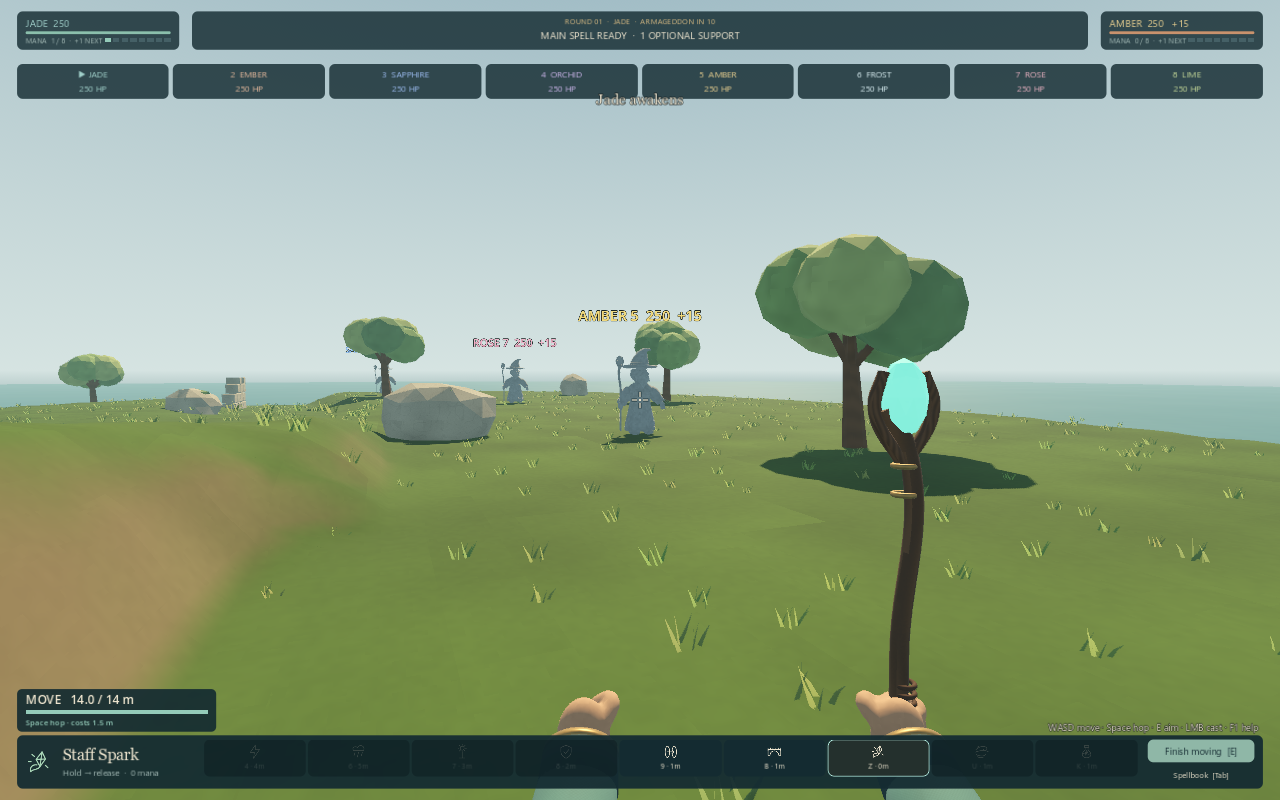
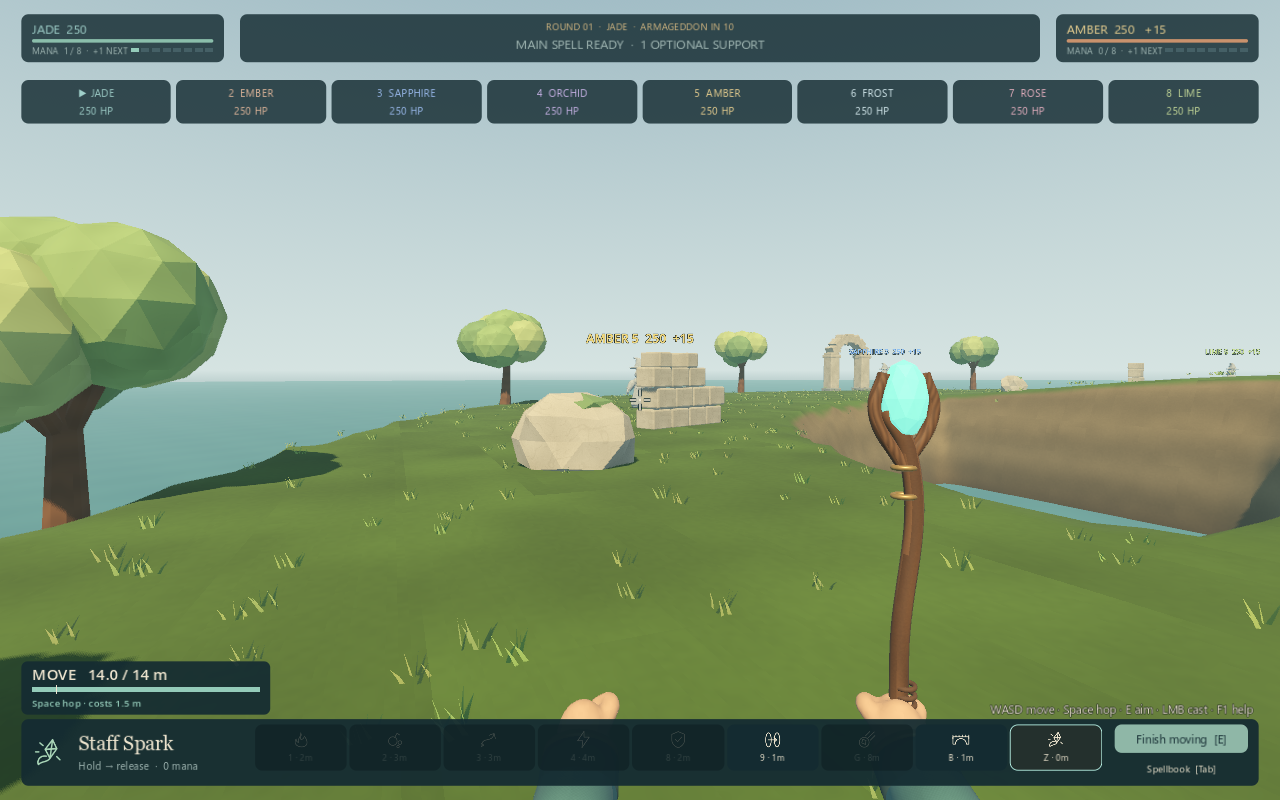
Publish ARCFALL 1.10.0 new spells, arenas and custom battles

diff --git a/README.md b/README.md
@@ -6,7 +6,7 @@ A first-person, turn-based wizard artillery game. Prepare up to eight spells und
 20-point budget, bank mana for a devastating ritual, and turn your opponent's
 cover into a crater. Water is deadly. Position matters as much as damage.
 
-![Stormcaller opens an eight-player battle on Grand Reach](images/battle.png)
+![A first-person opening on Moonwell Atoll in eight-player FFA](images/battle.png)
 
 ## Download and play
 
@@ -27,13 +27,21 @@ hardware specification.
 - AI duels and four/eight-player free-for-all against AI.
 - Six solo Trials with fixed rivals and optional mastery goals.
 - Apprentice, Adept and Archmage skirmish opponents, with equal resources.
-- Six named personal spellbooks and a combat history explaining each loss.
-- Two-player hotseat on one computer.
-- Guided practice and a sandbox with all twenty-one spells.
-- Three destructible arenas, original 3D artwork, towers, imps and a storm-sea
+- Six named personal spellbooks, shareable book codes and combat history.
+- Two/four/eight-player hotseat on one computer; FFA or team battles.
+- Prepared, mirrored or randomized books, restrictions, seeds and optional turn clocks.
+- Guided practice and a sandbox with all twenty-five spells.
+- Seven arena choices, original 3D artwork, towers, imps and a storm-sea
   finale with time for opponents to respond.
 
-This is a **local game**. There is no online matchmaking. Settled battles save
+AI and hotseat battles work locally. **Play with friends** also offers experimental
+direct connections for 2/4/8 humans and spectators on trusted networks. Use the
+same version, join the host's address/port, prepare books and ready up. This has
+no public matchmaking, relay, encrypted identity or host migration; public
+Internet security and adverse-network performance remain unvalidated. The host
+owns the shared battle, and opening settings pauses only your input.
+
+Settled local battles save
 automatically. **Save and return to shore** suspends a settled battle; **Resume
 saved battle** restores it after restarting. Closing during an action returns
 to the last safe checkpoint. Starting another normal battle replaces the single
@@ -55,6 +63,12 @@ result to judge your next shot.
 **F11** switches fullscreen, and **O** changes the speed of watching AI turns.
 Settings includes optional two-click casting, lower effects and interface scale.
 
+**Mana Leech** disrupts an exposed enemy's mana, **Cinder Pot** forces movement
+out of a ground hazard, **Grapnel** pulls you physically toward cover, and
+**Runic Canopy** intercepts overhead attacks while leaving its flanks exposed.
+Select these from the spellbook with **Tab**. Their protection, movement and
+resource tradeoffs compete with saving for a finisher.
+
 **K** selects Venom Orb: delayed pressure that wards block and Mend cleanses.
 **L** selects Stone Wall: destructible cover with open flanks. Eight spellbook
 presets support artillery, scouting, siege, poison, control and defensive play.
@@ -66,7 +80,7 @@ tools. Every book retains Blink and the free Staff Spark.
 
 ![First-person spell charging: judge the arc from angle and power](images/learn.png)
 
-*First-person charging is a controlled GPU review of 1.9.0. The storm is native gameplay from 1.8.1; the wall and eight-player opening are from 1.8.0, with the same art direction.*
+*First-person charging is a controlled GPU review of 1.10.0; Moonwell comes from the packaged 1.10.0 game. The storm is native gameplay from 1.8.1 and the wall is from 1.8.0, with the same art direction.*
 
 All six Trials are available immediately and accept any legal spellbook. Win to
 clear a Trial; two optional goals award mastery marks for combinations, varied
@@ -77,7 +91,7 @@ persist between launches.
 ## Prepare, reposition, counterattack
 
 Each turn allows **one optional support, then one main spell**. Blink, Ward,
-Mend, Bridge and Stone Wall share that support action and your mana bank.
+Mend, Bridge, Stone Wall, Grapnel and Runic Canopy share that support action and your mana bank.
 Blink out of a crater and attack, or cleanse and counterattack. Main spells end
 the turn. Income rises from 1 on your first two turns, to 2 from turn 3, 3 from
 turn 5, and 4 from turn 8. Bank up to 8; the HUD shows next-turn income.
@@ -85,6 +99,20 @@ turn 5, and 4 from turn 8. Bank up to 8; the HUD shows next-turn income.
 Ward lasts until your next turn and has two recovery turns. Mend has two uses
 per battle, restoring 40 health and clearing poison/roots. Briar binds the next movement turn, with a full
 unbound turn afterward; Ward/towers intercept it and Blink/Mend can answer.
+
+Raise Tower has three recovery turns after casting, so destroying it opens
+an opportunity. Blink checks stable terrain under its landing footprint.
+AI evaluates escape routes, actual tower foundations and support/main costs.
+Optional teams share victory and scouting but retain personal resources and
+friendly fire. The turn clock runs during movement and aiming, not spell flight.
+
+Moonwell Atoll, Crownstep Heights, Lantern Court and Copperwake Strand add
+broken basins, terraces, sheltered roof galleries and hooked coastal routes.
+Each supports 2/4/8 players. Grand Reach remains a larger Tidewatch variant.
+
+To share a build, open **Book library → Share or import a book** during
+preparation. Copy its code or paste one, inspect the spells/cost, then use it.
+Imports obey current restrictions; assigned Random or Mirror books stay fixed.
 
 **Meteor and Firestorm require a charged beacon to land.** Cover can catch it
 early and a sea miss spends the shot. Roofs intercept the descending attack.

diff --git a/CREDITS.md b/CREDITS.md
@@ -8,7 +8,9 @@ The Blender wizard, first-person staff/hands, imp, tower, bridge, ruins, walls, 
 
 The refined wizard and hands use original sculpted geometry and cloth, leather, brass and walnut maps generated by `tools/build_wizards.py`. Tidewatch Reach is an original closed terrain model in `art/blender/arenas/tidewatch.blend`, with its recipe in `tools/arenas/build_tidewatch.py`.
 
-The twenty-one spell families have additional original models and painted procedural textures in `art/blender/spells/`, with builders in `tools/spells/`. These include the runtime Meteor, Raise Tower, Venom Orb and Stone Wall models. The individual sources, placement contracts and reviewed previews are indexed in `Docs/spell-assets.md`.
+The twenty-five spell families have additional original models and painted procedural textures in `art/blender/spells/`, with builders in `tools/spells/`. These include the runtime Meteor, Raise Tower, Venom Orb, Stone Wall, Mana Leech, Cinder Pot, Grapnel and Runic Canopy models. The individual sources, placement contracts and reviewed previews are indexed in `Docs/spell-assets.md`.
+
+Moonwell Atoll, Crownstep Heights, Lantern Court and Copperwake Strand are original Blender terrain models. Their galleries and tide beacons use the same painted stone, walnut and aged brass direction. Editable sources are in `art/blender/arenas/`; construction recipes are in `tools/arenas/`.
 
 The spell icons are original SVG drawings generated by `tools/build_icons.py`. Music and sound effects are original synthesized audio generated by `tools/build_audio.py` and `tools/build_expansion_audio.py`. Terrain, water, and spell visuals use project-authored Godot code and shaders. No downloaded asset pack, Arcanists artwork, character model, soundtrack, or trademark graphic is bundled.
 

diff --git a/CHANGELOG.md b/CHANGELOG.md
@@ -1,3 +1,32 @@
+# ARCFALL 1.10.0
+
+Four new spells expand the catalogue to 25: Mana Leech, Cinder Pot, Grapnel and
+Runic Canopy. They add aimed mana theft, ground hazards, physical grappling and
+temporary overhead protection, with original painted Blender assets.
+
+Moonwell Atoll, Crownstep Heights, Lantern Court and Copperwake Strand add four
+distinct landforms for 2/4/8 players. Roof galleries provide real sheltered
+passages and elevated routes; destructive attacks can bring them down.
+
+Custom rules support mirrored/random books, spell restrictions, reproducible
+seeds, teams and optional 45/60/90-second turns. Hotseat now supports up to eight
+humans. Search/filter preparation and share validated spellbook codes.
+
+All human aiming and charging remains first person with no predicted artillery
+landing point. Network charging uses actual held time, so a slow render frame
+does not inflate the meter. Released spells keep their observation camera.
+
+AI evaluates tower foundations and remaining protection, short collapse escapes,
+allied targets and the new spells. Blink rejects unstable steep-lip landings.
+Raise Tower has three recovery turns, creating counterplay after destruction.
+Existing local saves migrate forward, retaining terrain and battle resources.
+
+Experimental direct connections support 2/4/8 humans and spectators on trusted
+networks. Hosts validate actions and spending; clients preserve first-person
+control, shared effects and their separate local saved battle. Reconnect has a
+45-second grace. Public matchmaking, Internet security, relays, host migration
+and adverse-network acceptance are not included.
+
 # ARCFALL 1.9.0
 
 All human aiming and charging is first person, including Sky Ray and
